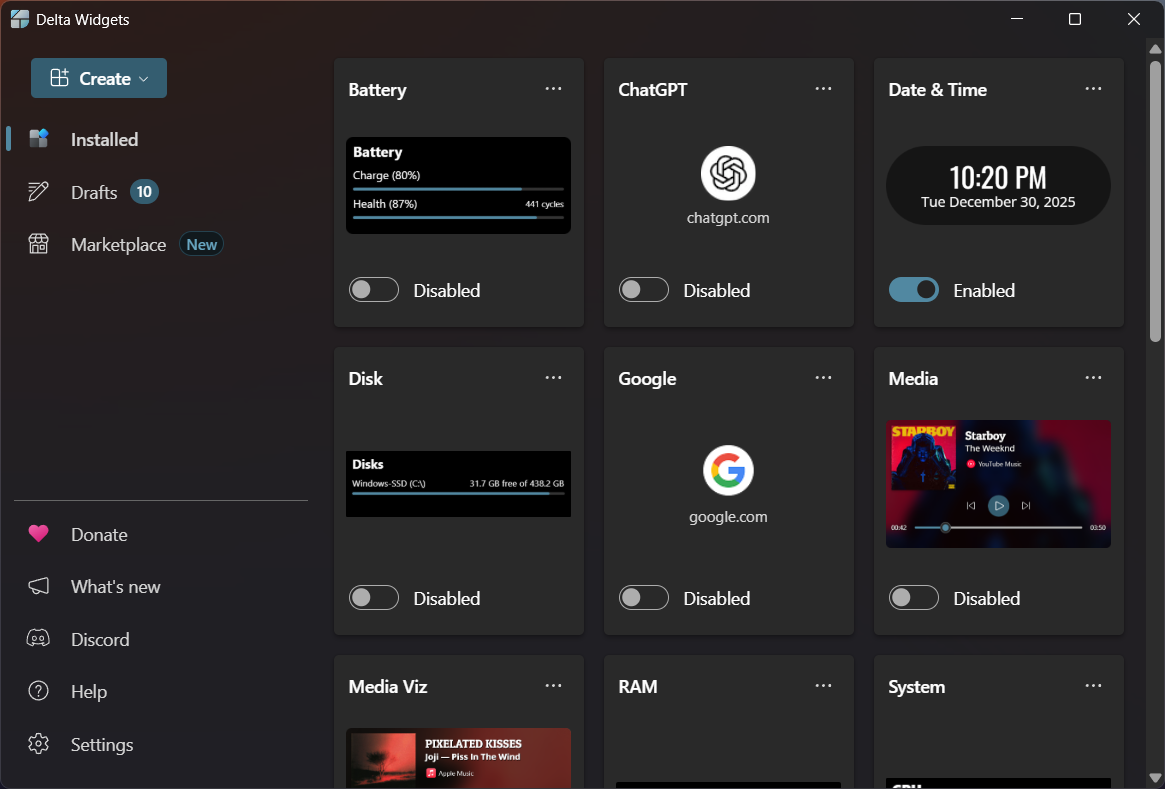
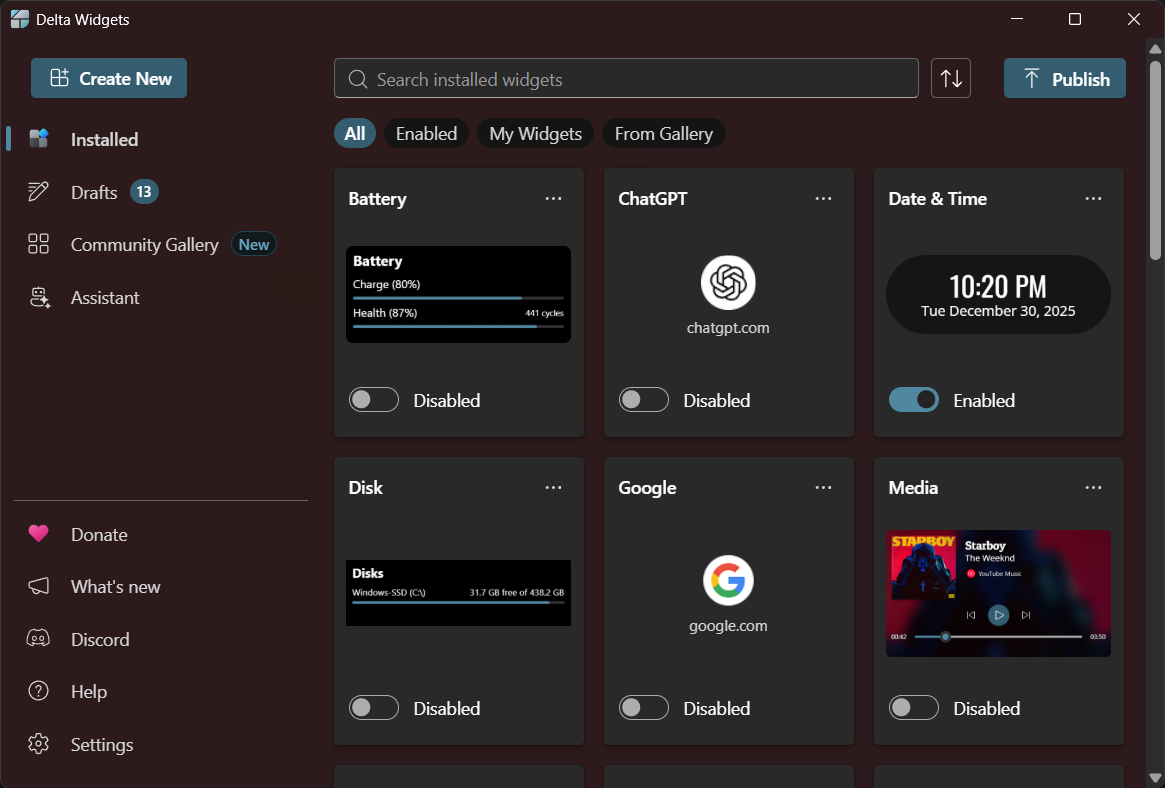
add changelog + update docs and images

diff --git a/src/main/components/WhatsNew/data.ts b/src/main/components/WhatsNew/data.ts
@@ -13,6 +13,56 @@ export interface IChangelog {
 
 export const CHANGELOG: IChangelog[] = [
   {
+    version: "1.0.5",
+    items: [
+      {
+        title: "Gallery",
+        description:
+          "Introduced gallery functionality with widget uploads, downloads, and deep link integration.",
+      },
+      {
+        title: "Widget Settings",
+        description:
+          "Added configurable widget settings, including weather city and date options for supported widgets.",
+      },
+      {
+        title: "Widget Management",
+        description:
+          "Added support for searching, filtering and renaming widgets.",
+      },
+      {
+        title: "Notifications",
+        description:
+          "Introduced a new notifications system to keep you informed about important updates.",
+      },
+      {
+        title: "Deep Linking",
+        description:
+          "Added deep link support, allowing widgets and app actions to be opened directly from links.",
+      },
+      {
+        title: "New Widget APIs",
+        description:
+          "Added asset path, and background asset path commands for more powerful widgets.",
+      },
+      {
+        title: "Widget Events",
+        description:
+          "Added close widget and duplicate widget events, with updated event documentation.",
+      },
+      {
+        title: "Media Improvements",
+        description:
+          "Improved image handling, screenshot management, and thumbnail behavior across widgets and gallery listings.",
+      },
+      {
+        title: "Performance & Stability",
+        description:
+          "Improved state management, refactored internal systems, and resolved various bugs throughout the application.",
+      },
+    ],
+  },
+  {
     version: "1.0.4",
     items: [
       {

diff --git a/docs/ai-assistant.md b/docs/ai-assistant.md
@@ -1,5 +1,7 @@
 # AI Assistant
 
+<img src="./img/ss-assistant.png" alt="assistant" width="350">
+
 Delta Widgets ships with an **optional** AI assistant that can generate and edit widgets for you from a chat prompt, and answer questions about your media history.
 
 !!! info "Completely optional (BYOK)"
@@ -20,26 +22,26 @@ The first time you open the assistant you'll be asked to set up a model. You can
 
 Each model has the following fields:
 
-| Field | Required | Notes |
-|---|---|---|
-| **Provider** | Yes | One of the supported providers below. |
-| **Name** | No | A friendly display name (e.g. `Work GPT-5`). Defaults to the model id. |
-| **Model** | Yes | The provider's model id (e.g. `gpt-4`, `claude-3`, `gemini-2.5-flash`, `phi4-mini:3.8b`, `openrouter/free`). |
-| **API Key** | Yes (except Ollama) | Stored encrypted in your OS keyring — see [Where keys are stored](#where-keys-are-stored). |
-| **Base URL** | No (hidden for Gemini) | Override the provider endpoint. Defaults are shown per-provider below. |
-| **Custom headers** | No | Extra request headers as a JSON object. |
+| Field              | Required               | Notes                                                                                                        |
+| ------------------ | ---------------------- | ------------------------------------------------------------------------------------------------------------ |
+| **Provider**       | Yes                    | One of the supported providers below.                                                                        |
+| **Name**           | No                     | A friendly display name (e.g. `Work GPT-5`). Defaults to the model id.                                       |
+| **Model**          | Yes                    | The provider's model id (e.g. `gpt-4`, `claude-3`, `gemini-2.5-flash`, `phi4-mini:3.8b`, `openrouter/free`). |
+| **API Key**        | Yes (except Ollama)    | Stored encrypted in your OS keyring — see [Where keys are stored](#where-keys-are-stored).                   |
+| **Base URL**       | No (hidden for Gemini) | Override the provider endpoint. Defaults are shown per-provider below.                                       |
+| **Custom headers** | No                     | Extra request headers as a JSON object.                                                                      |
 
 When you click **Add**/**Update**, the app runs a quick **test connection** (a `Ping → pong` request with retries disabled). The model is only saved if that request succeeds, so an invalid key or model id surfaces immediately.
 
 ### Supported providers
 
-| Provider | Default base URL | API key |
-|---|---|---|
-| **OpenAI** | `https://api.openai.com/v1` | Required |
-| **Anthropic** | `https://api.anthropic.com/v1` | Required |
-| **Google Gemini** | _(SDK default)_ | Required |
-| **Ollama** | `http://localhost:11434` | Not needed (local) |
-| **OpenRouter** | `https://openrouter.ai/api/v1` | Required |
+| Provider          | Default base URL               | API key            |
+| ----------------- | ------------------------------ | ------------------ |
+| **OpenAI**        | `https://api.openai.com/v1`    | Required           |
+| **Anthropic**     | `https://api.anthropic.com/v1` | Required           |
+| **Google Gemini** | _(SDK default)_                | Required           |
+| **Ollama**        | `http://localhost:11434`       | Not needed (local) |
+| **OpenRouter**    | `https://openrouter.ai/api/v1` | Required           |
 
 !!! tip "Try it for free"
 

diff --git a/CHANGELOG.md b/CHANGELOG.md
@@ -4,6 +4,47 @@ All notable changes to this project will be documented in this file.
 
 The format is based on [Keep a Changelog](https://keepachangelog.com/en/1.0.0/).
 
+## [1.0.5] - 2026-09-30
+
+### New Features
+
+- Added Community Gallery integration.
+- Added support for renaming custom widgets.
+- Added widget settings support.
+- Added duplicate widget event.
+- Added close widget event.
+- Added deep link support and application deep link handling.
+- Added widget download functionality.
+- Added notifications component.
+- Added background asset path retrieval for widgets.
+- Added asset path retrieval APIs for widget resources.
+
+### Improvements
+
+- Enhanced image and text properties with weather city and date configuration dialogs.
+- Improved widget state management and data handling.
+- Improved screenshot handling and HTML widget bundling documentation.
+- Streamlined image handling across components.
+- Improved changelog structure.
+- Refactored widget list components.
+- Refactored analytics functions into a shared common module.
+- Refactored type definitions and internal data handling.
+- Replaced initialization scripts with search parameter based configuration.
+- Updated event documentation.
+- Applied dependency updates and code quality improvements.
+
+### Community Gallery
+
+- Introduced initial Community Gallery infrastructure.
+- Added gallery upload workflow.
+- Enhanced gallery integration throughout the application.
+- Improved widget download and installation flow.
+
+### Other Changes
+
+- Updated default thumbnail behavior for widgets without media.
+- Various internal refactors, cleanup, and stability improvements.
+
 ## [1.0.4] - 2026-07-26
 
 ### Added

diff --git a/README.md b/README.md
@@ -34,6 +34,8 @@ Templates
 
 ## AI Assistant (Optional)
 
+<img src="./ss-assistant.png" alt="assistant" width="350">
+
 Delta Widgets includes an optional AI assistant that can help create and modify widgets, answer questions about media history, and assist with application workflows.
 
 The AI assistant follows a Bring Your Own Key (BYOK) model:
